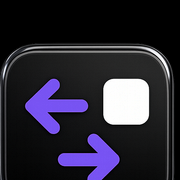
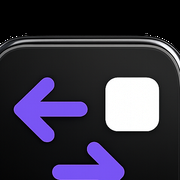
fix: icono iOS sin marco negro - recorte badge cristal directo
Made-with: Cursor

Changed region(s): [[0.0, 0.1667, 1.0, 1.0], [0.2778, 0.7222, 0.6944, 1.0], [0.5556, 0.4167, 0.8889, 0.75]]

diff --git a/docs/AUDITORIA_FINAL_ICONO_IOS.md b/docs/AUDITORIA_FINAL_ICONO_IOS.md
@@ -1,0 +1,76 @@
+# Auditoría final — Icono iOS WaitMe
+
+**Fecha:** 2025-03-06  
+**Objetivo:** Corregir el marco negro extra alrededor del icono iOS.
+
+---
+
+## 1. Causa exacta
+
+El script anterior:
+1. Extraía la región del icono (230, 0, 563, 563) que incluía **negro del asset** alrededor del badge.
+2. **Componía** ese recorte sobre un **canvas negro 180×180**.
+3. Resultado: doble marco negro — el del asset + el del canvas.
+
+---
+
+## 2. Archivo fuente usado
+
+| Campo | Valor |
+|-------|-------|
+| **Archivo** | `src/assets/d2ae993d3_WaitMe.png` |
+| **Dimensiones** | 1024 × 1024 px |
+| **Uso en Home** | `<img src={appLogo} />` (línea 841) |
+
+---
+
+## 3. Recorte exacto aplicado
+
+| Parámetro | Valor |
+|-----------|-------|
+| **left** | 272 |
+| **top** | 40 |
+| **width** | 480 |
+| **height** | 480 |
+
+Región `(272, 40, 480, 480)` — cuadrado centrado que contiene solo el badge cristal, minimizando el negro del asset.
+
+**Pipeline:**
+1. `extract(272, 40, 480, 480)` — solo el badge.
+2. `resize(180, 180, { fit: 'fill' })` — escala directa a 180×180.
+3. `removeAlpha()` — sin transparencia.
+4. **Sin canvas negro** — el badge es el icono completo.
+
+---
+
+## 4. Qué se ve en /apple-touch-icon.png
+
+- Cuadrado cristal (badge con efecto cristal) ocupando prácticamente todo el icono.
+- Flechas moradas y cuadrado blanco centrados.
+- Sin marco negro extra.
+- Sin texto.
+- 180×180 px, PNG RGB, sin alpha.
+
+---
+
+## 5. Validación
+
+| Check | Estado |
+|-------|--------|
+| index.html `<link rel="apple-touch-icon" sizes="180x180" href="/apple-touch-icon.png" />` | OK |
+| HTTP 200 en `/apple-touch-icon.png` | OK |
+| 180×180, sin alpha | OK |
+
+---
+
+## 6. Archivos tocados
+
+- `scripts/generate-apple-touch-icon.mjs` — nuevo recorte, sin canvas negro.
+- `public/apple-touch-icon.png` — icono regenerado.
+
+## 7. Archivos NO tocados
+
+- Home.jsx
+- index.html
+- manifest.json
+- Cualquier lógica o UI
